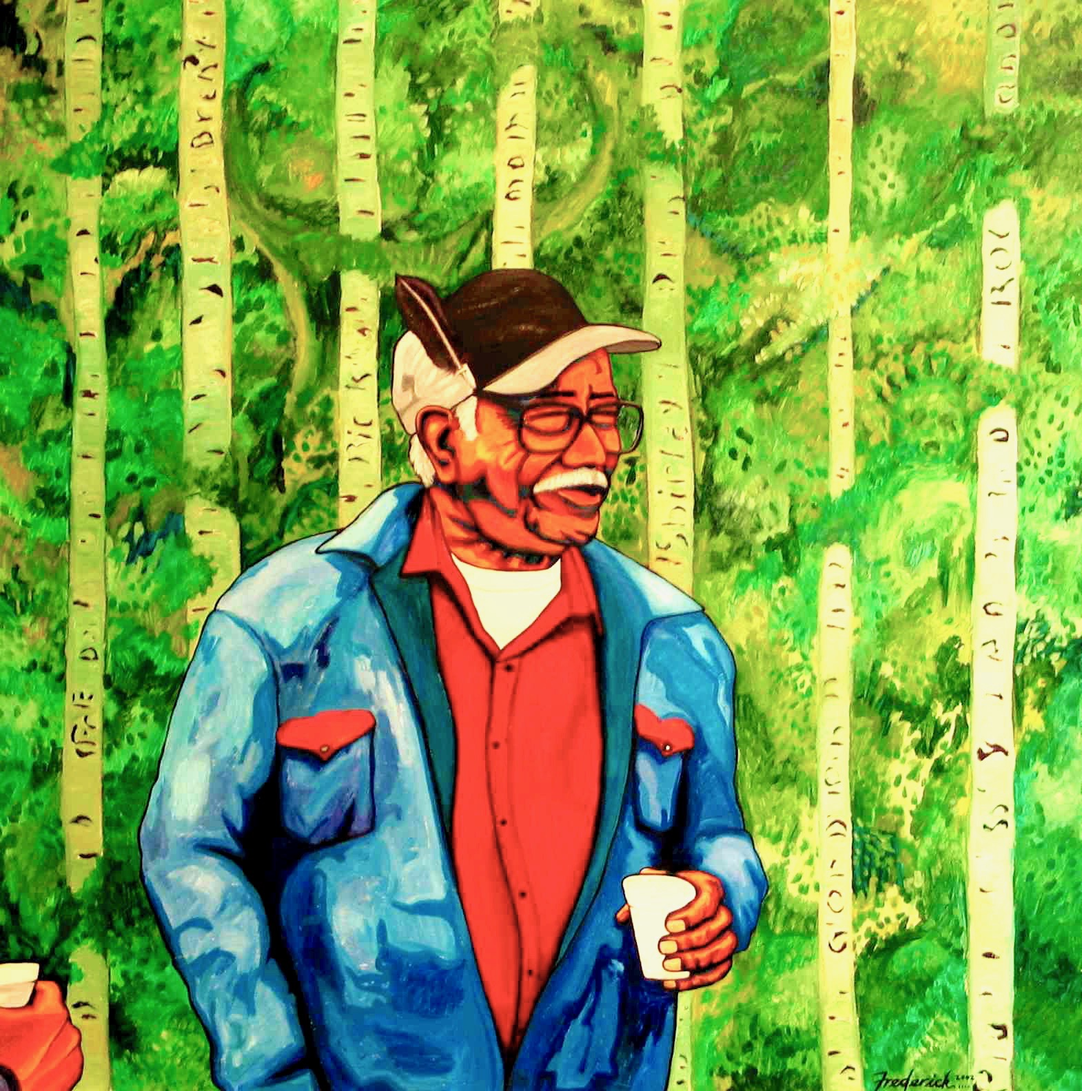
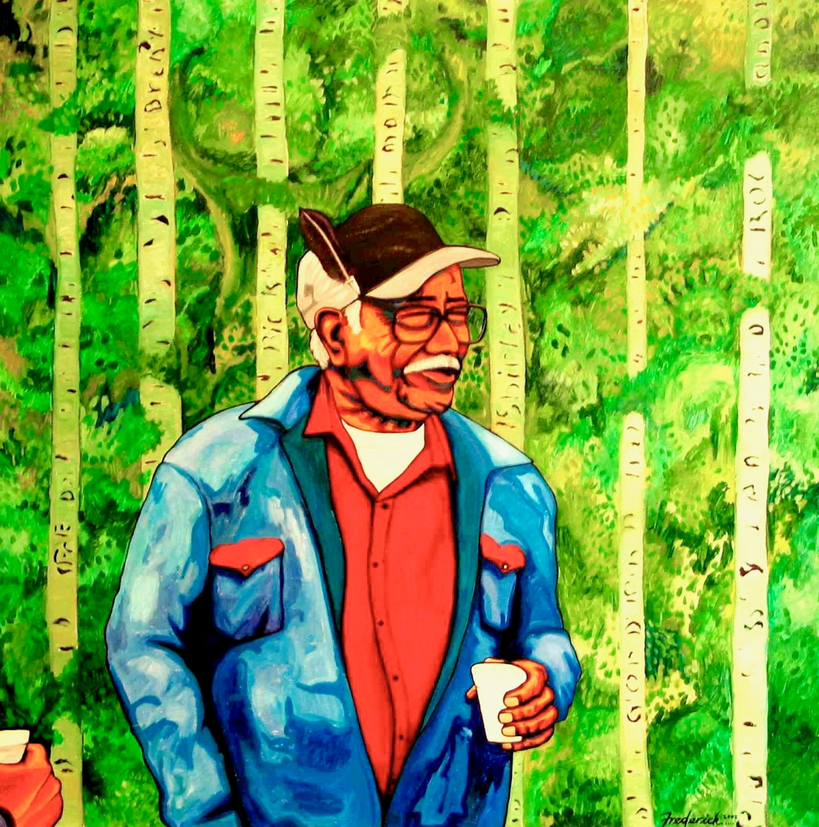
optimised photos

diff --git a/paintings/index.html b/paintings/index.html
@@ -195,6 +195,7 @@
 
    <div class="divider"></div>
 
+<!--
    <article>
      <h3>We Live Together</h3>
      <div class="vertical">
@@ -221,6 +222,7 @@
    </article>
 
    <div class="divider"></div>
+-->
 
    <article>
      <h3>The Spirits of Raven's World</h3>
@@ -534,7 +536,7 @@ By Robert Thivierge (User:Thivierr) - Self-made (Digital camera photo taken by u
   <aside class="testimonial">
     <img
       src="../img/raymond-floyd.jpg"
-      alt="Painting of Fred dancing on a table"
+      alt="Photo of Raymond Floyd"
     />
     <h4><strong>&quot;always far above expectations&quot;</strong></h4>
     <p>
@@ -690,10 +692,10 @@ By Robert Thivierge (User:Thivierr) - Self-made (Digital camera photo taken by u
   </article>
 
   <aside class="testimonial">
-    <i
-      title=""
-      class="fas fa-arrow-circle-right"
-    ></i>
+    <img
+      src="../img/mireille.jpg"
+      alt="Photo of Mireille Sampson"
+    />
     <h4><strong>&quot;this is a placeholder testimonial&quot;</strong></h4>
     <p>
       &quot;I know Fred in many different relationships. As an artist he
@@ -706,7 +708,7 @@ By Robert Thivierge (User:Thivierr) - Self-made (Digital camera photo taken by u
 
     <p><strong>Mireille Sampson</strong></p>
     <p class="small-print">
-      My job title? Or just art collector.
+      Art Lover
     </p>
   </aside>
 </section>
@@ -815,8 +817,48 @@ By Robert Thivierge (User:Thivierr) - Self-made (Digital camera photo taken by u
      <div class="divider-blackbean"></div>
 
      <article>
+       <h3>Beside the River</h3>
+       <img src="../img/beside-the-river.jpg" alt="painting of tradition bush life" />
+
+       <div class="image-info">
+           <h4>Name of Collection; Commission?</h4>
+           <p>
+             Medium on Substrate<br />
+             Height x Width<br />
+             Date ?<br />
+           </p>
+           <p class="right-small">Back to Top</p>
+           <p class="right-small">
+             <a href="#"><i title="go to top of page" class="fas fa-arrow-circle-up"></i></a>
+           </p>
+        </div>
+     </article>
+
+     <div class="divider-blackbean"></div>
+
+     <article>
        <h3>Living With the River</h3>
        <img src="../img/living-with-the-river.jpg" alt="painting of tradition bush life" />
+
+       <div class="image-info">
+           <h4>Name of Collection; Commission?</h4>
+           <p>
+             Medium on Substrate<br />
+             Height x Width<br />
+             Date ?<br />
+           </p>
+           <p class="right-small">Back to Top</p>
+           <p class="right-small">
+             <a href="#"><i title="go to top of page" class="fas fa-arrow-circle-up"></i></a>
+           </p>
+        </div>
+     </article>
+
+     <div class="divider-blackbean"></div>
+
+     <article>
+       <h3>Big Bear</h3>
+       <img src="../img/big-bear-4.jpg" alt="painting of Big Bear" />
 
        <div class="image-info">
            <h4>Name of Collection; Commission?</h4>
@@ -839,6 +881,56 @@ By Robert Thivierge (User:Thivierr) - Self-made (Digital camera photo taken by u
        <div class="vertical">
          <img
            src="../img/earth-spirits.jpg"
+           alt="Painting of traditional Cree symbols"
+         />
+
+         <div class="image-info">
+           <h4>Name of Collection; Commission?</h4>
+           <p>
+             Medium on Substrate<br />
+             Height x Width<br />
+             Date ?<br />
+           </p>
+           <p class="right-small">Back to Top</p>
+           <p class="right-small">
+             <a href="#"><i title="go to top of page" class="fas fa-arrow-circle-up"></i></a>
+           </p>
+         </div>
+       </div>
+     </article>
+
+     <div class="divider-blackbean"></div>
+
+     <article>
+       <h3>Athabasca Dreams</h3>
+       <div class="vertical">
+         <img
+           src="../img/athabasca-dreams.jpg"
+           alt="Painting of traditional Cree bush life by the river"
+         />
+
+         <div class="image-info">
+           <h4>Name of Collection; Commission?</h4>
+           <p>
+             Medium on Substrate<br />
+             Height x Width<br />
+             Date ?<br />
+           </p>
+           <p class="right-small">Back to Top</p>
+           <p class="right-small">
+             <a href="#"><i title="go to top of page" class="fas fa-arrow-circle-up"></i></a>
+           </p>
+         </div>
+       </div>
+     </article>
+
+     <div class="divider-blackbean"></div>
+
+     <article>
+       <h3>Connections</h3>
+       <div class="vertical">
+         <img
+           src="../img/connections.jpg"
            alt="Painting of traditional Cree symbols"
          />
 
